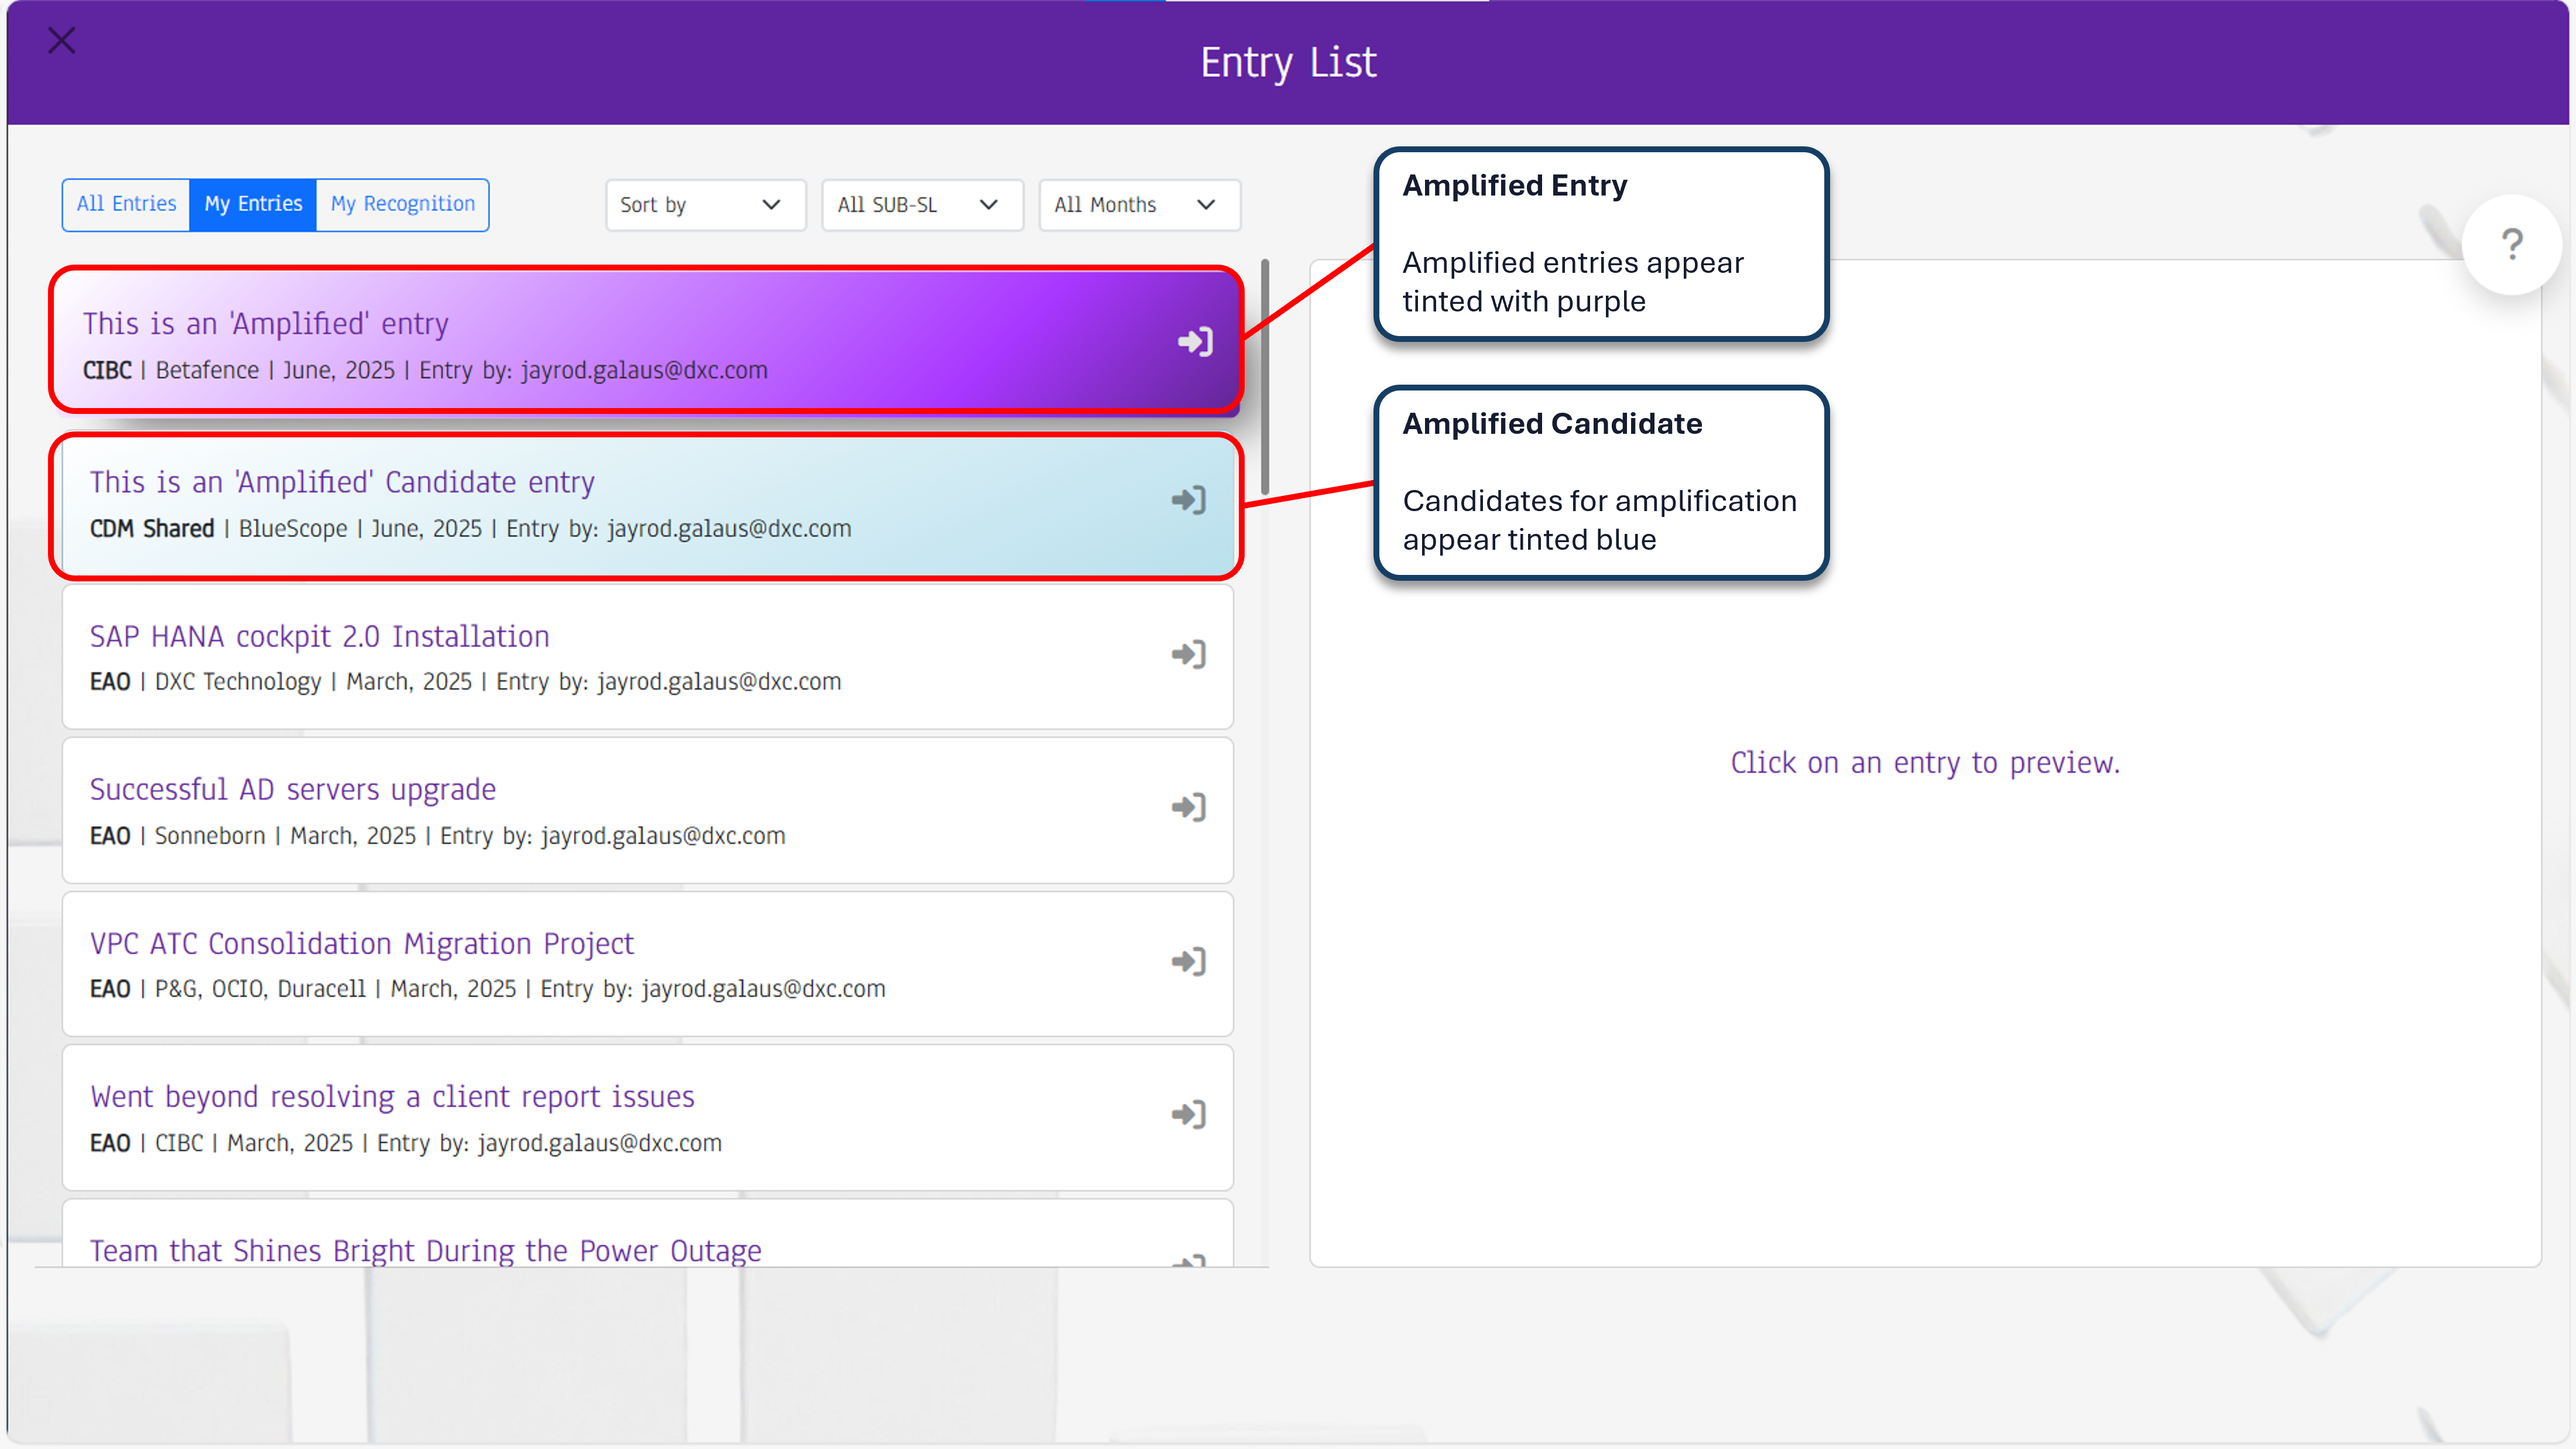
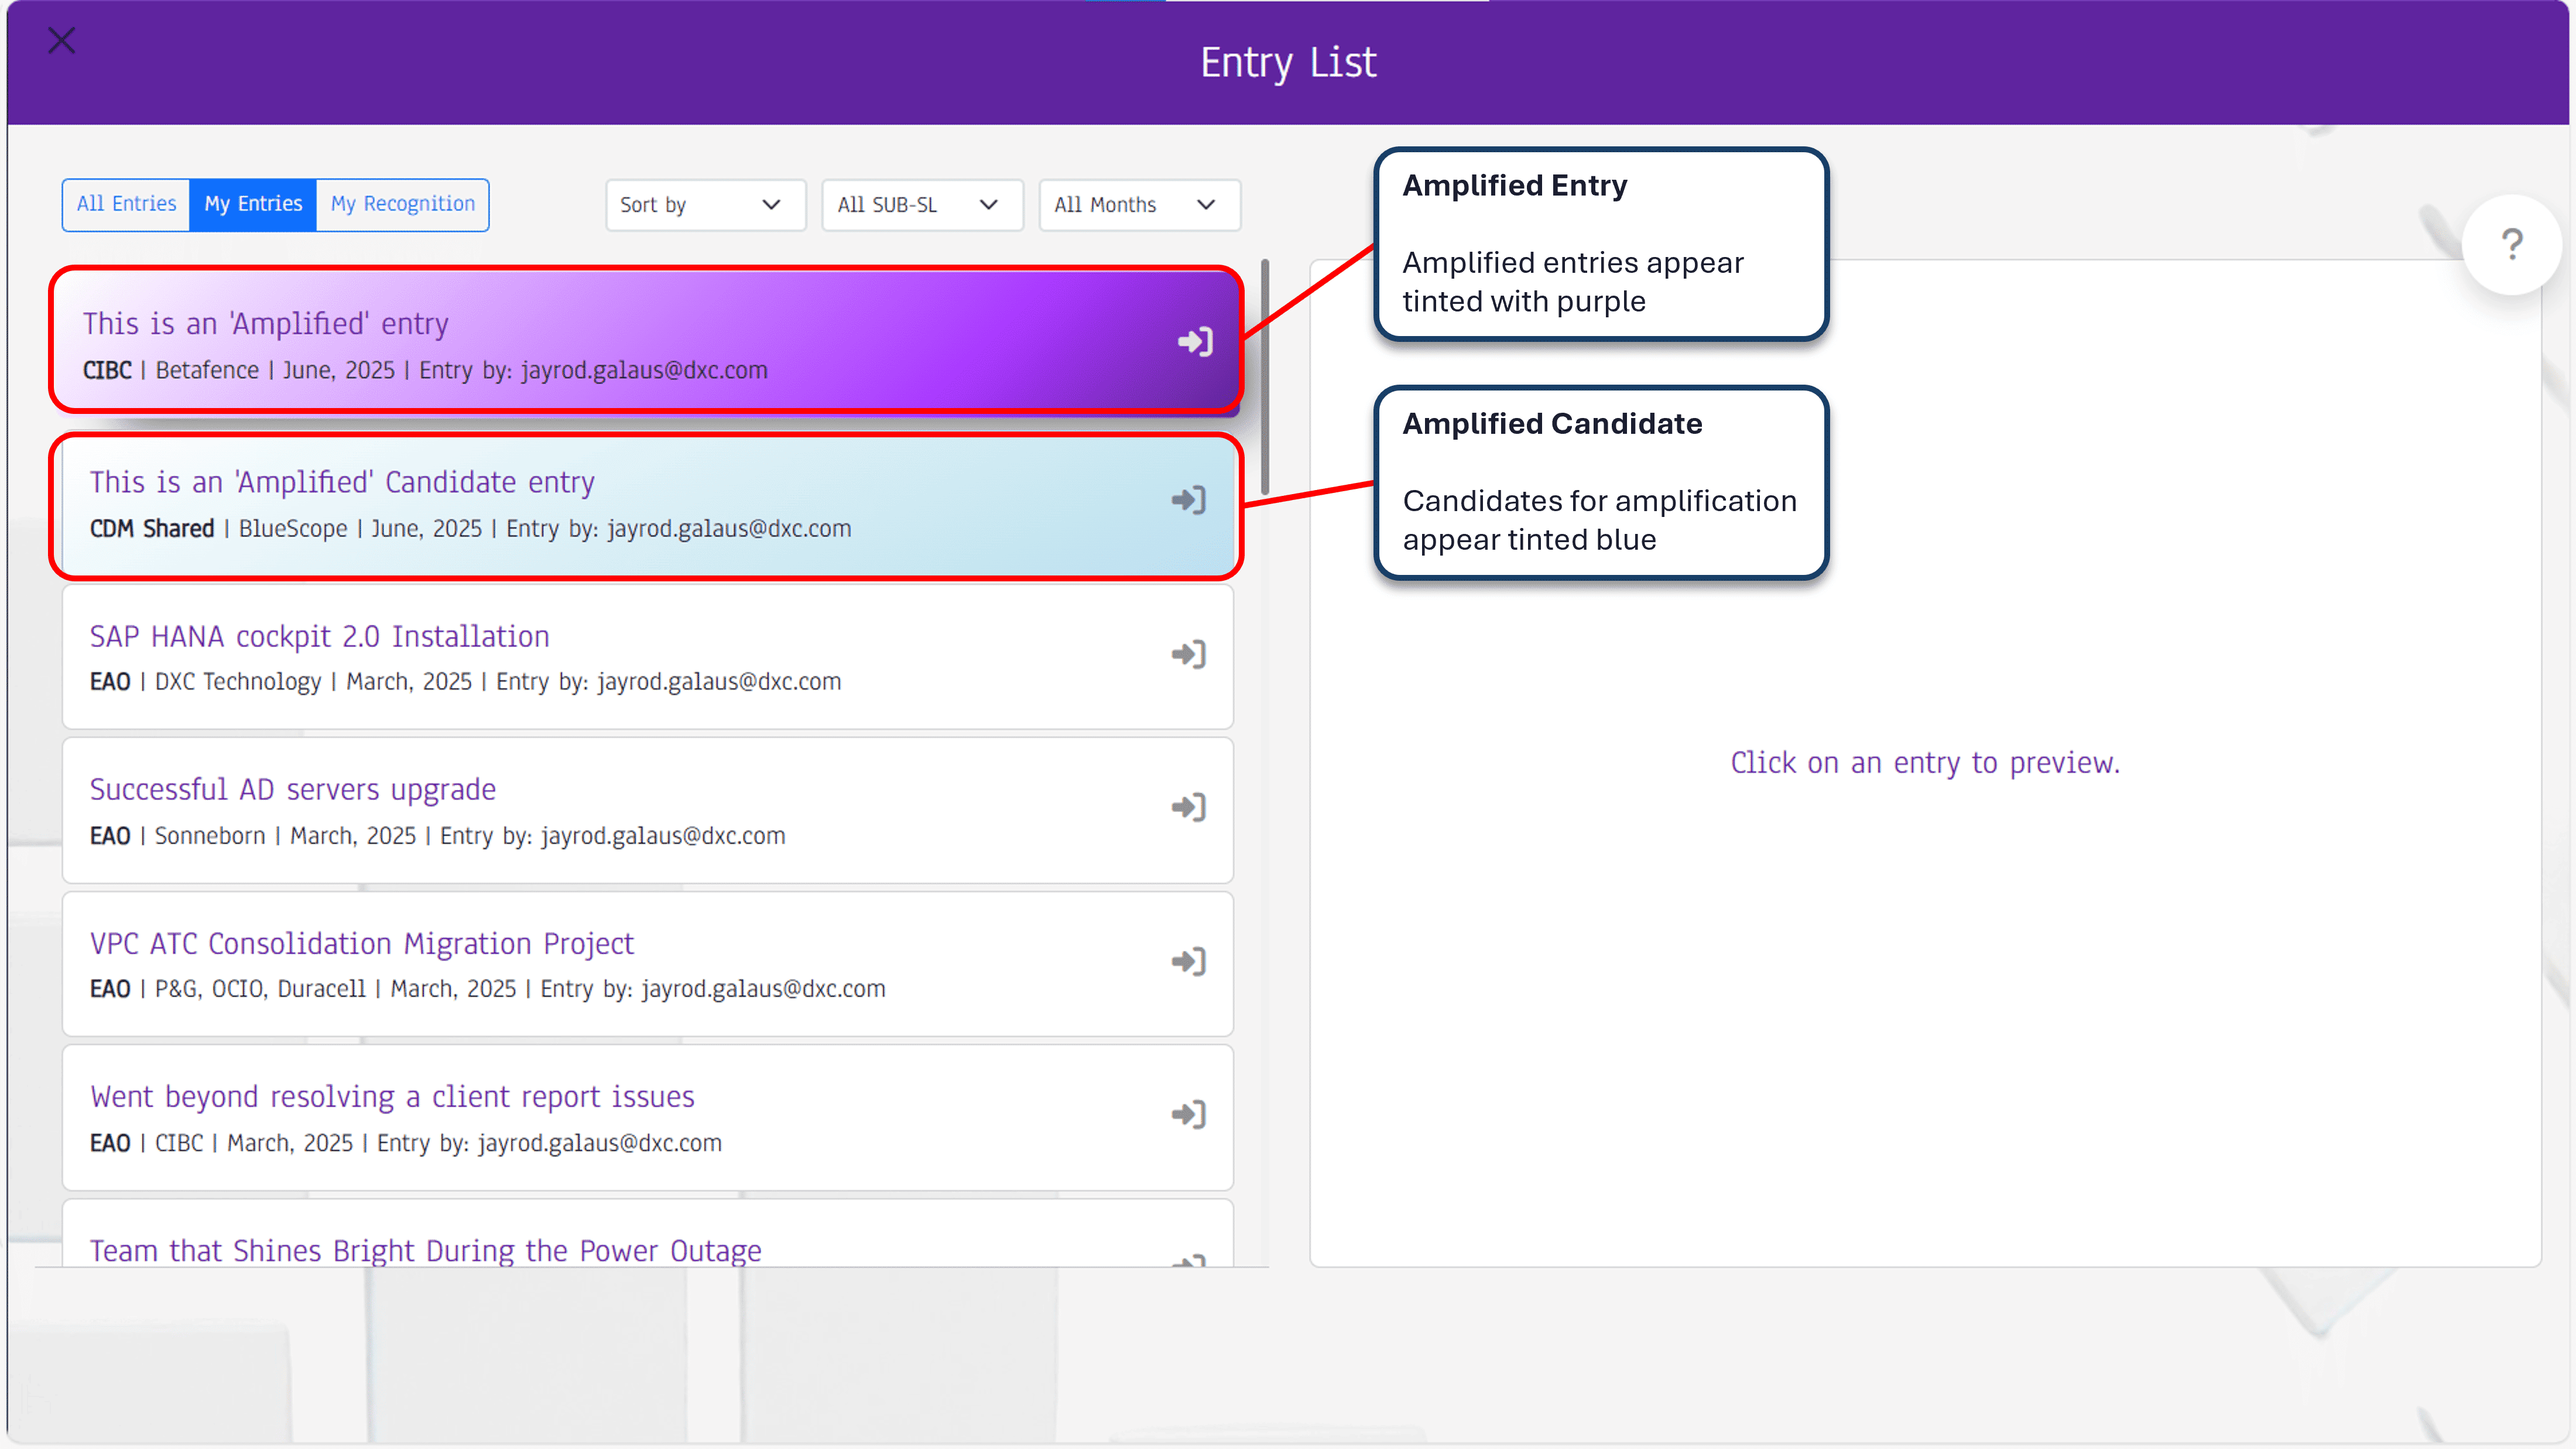
d

diff --git a/index.html b/index.html
@@ -1032,43 +1032,46 @@
                 <div id="newEntryCarousel" class="carousel slide carousel-fade h-100">
                     <div class="carousel-inner h-100">
                         <div class="carousel-item h-100 active">
-                            <div class="lazy-bg w-100 h-100" data-bg="assets/img/tutorial/new entry/Picture1.png"></div>
+                            <div class="lazy-bg w-100 h-100" data-bg="assets/img/tutorial/new entry/lowres/Picture1.png"></div>
                         </div>
                         <div class="carousel-item h-100">
-                            <div class="lazy-bg w-100 h-100" data-bg="assets/img/tutorial/new entry/Picture2.png"></div>
+                            <div class="lazy-bg w-100 h-100" data-bg="assets/img/tutorial/new entry/lowres/Picture2.png"></div>
                         </div>
                         <div class="carousel-item h-100">
-                            <div class="lazy-bg w-100 h-100" data-bg="assets/img/tutorial/new entry/Picture3.png"></div>
+                            <div class="lazy-bg w-100 h-100" data-bg="assets/img/tutorial/new entry/lowres/Picture3.png"></div>
+                        </div>
+                        <div class="carousel-item h-100 super-element">
+                            <div class="lazy-bg w-100 h-100" data-bg="assets/img/tutorial/new entry/lowres/Picture4.png"></div>
                         </div>
                         <div class="carousel-item h-100">
-                            <div class="lazy-bg w-100 h-100" data-bg="assets/img/tutorial/new entry/Picture4.png"></div>
+                            <div class="lazy-bg w-100 h-100" data-bg="assets/img/tutorial/new entry/lowres/Picture4.png"></div>
                         </div>
                         <div class="carousel-item h-100">
-                            <div class="lazy-bg w-100 h-100" data-bg="assets/img/tutorial/new entry/Picture5.png"></div>
+                            <div class="lazy-bg w-100 h-100" data-bg="assets/img/tutorial/new entry/lowres/Picture5.png"></div>
                         </div>
                         <div class="carousel-item h-100">
-                            <div class="lazy-bg w-100 h-100" data-bg="assets/img/tutorial/new entry/Picture6.png"></div>
+                            <div class="lazy-bg w-100 h-100" data-bg="assets/img/tutorial/new entry/lowres/Picture6.png"></div>
                         </div>
                         <div class="carousel-item h-100">
-                            <div class="lazy-bg w-100 h-100" data-bg="assets/img/tutorial/new entry/Picture7.png"></div>
+                            <div class="lazy-bg w-100 h-100" data-bg="assets/img/tutorial/new entry/lowres/Picture7.png"></div>
                         </div>
                         <div class="carousel-item h-100">
-                            <div class="lazy-bg w-100 h-100" data-bg="assets/img/tutorial/new entry/Picture9.png"></div>
+                            <div class="lazy-bg w-100 h-100" data-bg="assets/img/tutorial/new entry/lowres/Picture9.png"></div>
                         </div>
                         <div class="carousel-item h-100">
-                            <div class="lazy-bg w-100 h-100" data-bg="assets/img/tutorial/new entry/Picture10.png"></div>
+                            <div class="lazy-bg w-100 h-100" data-bg="assets/img/tutorial/new entry/lowres/Picture10.png"></div>
                         </div>
                         <div class="carousel-item h-100">
-                            <div class="lazy-bg w-100 h-100" data-bg="assets/img/tutorial/new entry/Picture11.png"></div>
+                            <div class="lazy-bg w-100 h-100" data-bg="assets/img/tutorial/new entry/lowres/Picture11.png"></div>
                         </div>
                         <div class="carousel-item h-100">
-                            <div class="lazy-bg w-100 h-100" data-bg="assets/img/tutorial/new entry/Picture12.png"></div>
+                            <div class="lazy-bg w-100 h-100" data-bg="assets/img/tutorial/new entry/lowres/Picture12.png"></div>
                         </div>
                         <div class="carousel-item h-100">
-                            <div class="lazy-bg w-100 h-100" data-bg="assets/img/tutorial/new entry/Picture13.png"></div>
+                            <div class="lazy-bg w-100 h-100" data-bg="assets/img/tutorial/new entry/lowres/Picture13.png"></div>
                         </div>
                         <div class="carousel-item h-100">
-                            <div class="lazy-bg w-100 h-100" data-bg="assets/img/tutorial/new entry/Picture14.png"></div>
+                            <div class="lazy-bg w-100 h-100" data-bg="assets/img/tutorial/new entry/lowres/Picture14.png"></div>
                         </div>
                     </div>
                     <button class="carousel-control-prev" type="button" data-bs-target="#newEntryCarousel" data-bs-slide="prev">
